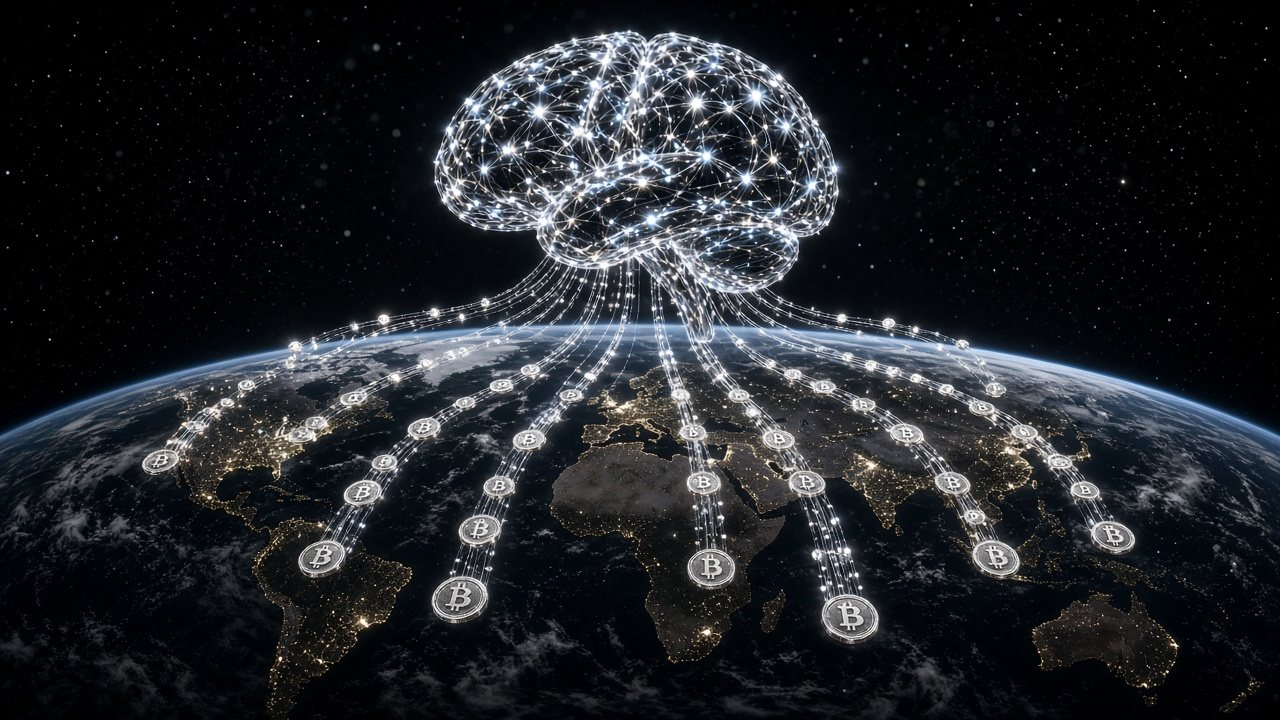
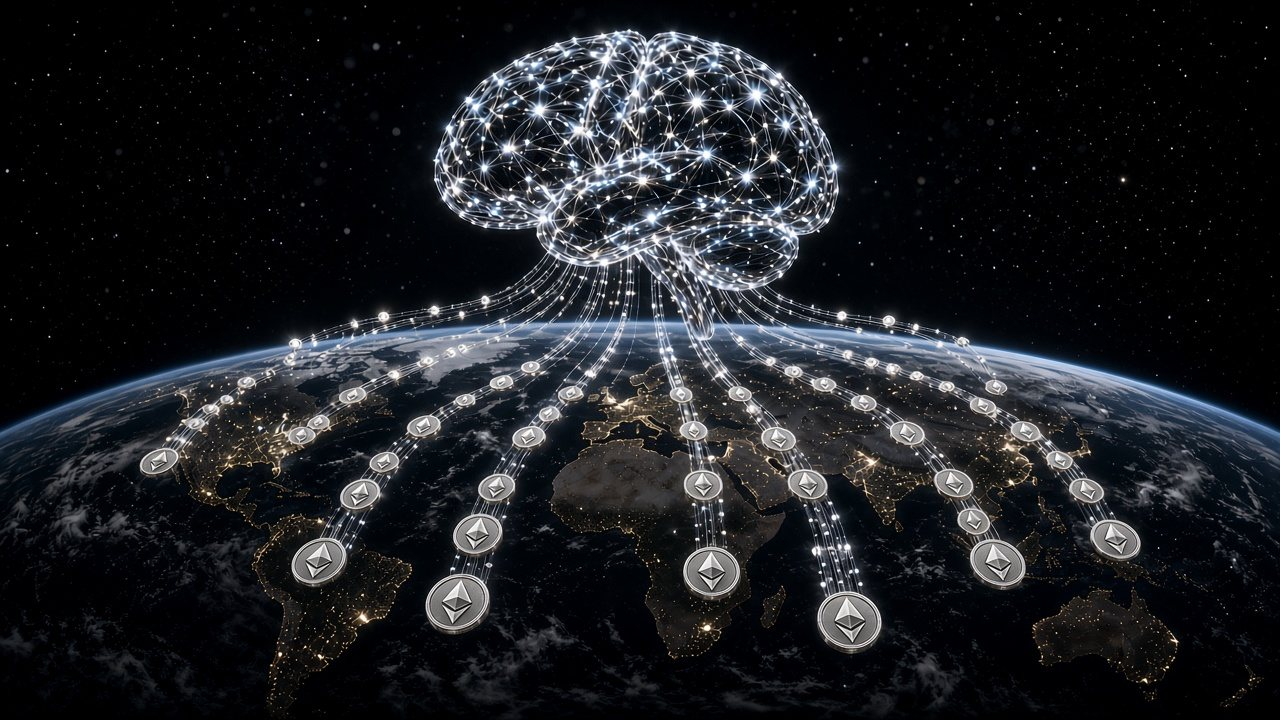
Gallery 8: ETH marks instead of BTC

diff --git a/index.html b/index.html
@@ -45,7 +45,7 @@
 <div class="card"><span class="n">03</span><h3>Swap for $UHI</h3><p>Open a DEX on Robinhood Chain such as Uniswap, connect your wallet, paste the official CA and swap ETH for $UHI.</p></div>
 <div class="card"><span class="n">04</span><h3>Go high</h3><p>Hold, share, and let the robots handle the rest.</p></div>
 </div><div class="row c"><a class="btn buy">Buy on Uniswap</a><a class="btn ghost" href="https://docs.robinhood.com/chain/bridging/" target="_blank" rel="noopener">Bridge to Robinhood Chain</a></div></section>
-<section id="gallery" class="reveal"><p class="eyebrow c">The future, in chrome</p><h2 class="c">Gallery</h2><div class="gallery"><button aria-label="Open image 1" data-full="img/g1.jpg"><picture><source srcset="img/g1.webp" type="image/webp"><img src="img/g1.jpg" alt="UHI: the chrome globe" loading="lazy" width="1280" height="720"></picture></button><button aria-label="Open image 2" data-full="img/g2.jpg"><picture><source srcset="img/g2.webp" type="image/webp"><img src="img/g2.jpg" alt="UHI: payday, every day" loading="lazy" width="1280" height="720"></picture></button><button aria-label="Open image 3" data-full="img/g3.jpg"><picture><source srcset="img/g3.webp" type="image/webp"><img src="img/g3.jpg" alt="UHI: the silver city" loading="lazy" width="1280" height="720"></picture></button><button aria-label="Open image 4" data-full="img/g4.jpg"><picture><source srcset="img/g4.webp" type="image/webp"><img src="img/g4.jpg" alt="UHI: robots on shift, you on break" loading="lazy" width="1280" height="720"></picture></button><button aria-label="Open image 5" data-full="img/g5.jpg"><picture><source srcset="img/g5.webp" type="image/webp"><img src="img/g5.jpg" alt="UHI: orbit" loading="lazy" width="1280" height="720"></picture></button><button aria-label="Open image 6" data-full="img/g6.jpg"><picture><source srcset="img/g6.webp" type="image/webp"><img src="img/g6.jpg" alt="UHI: launch day" loading="lazy" width="1280" height="720"></picture></button><button aria-label="Open image 7" data-full="img/g7.jpg"><picture><source srcset="img/g7.webp" type="image/webp"><img src="img/g7.jpg" alt="UHI: it's raining $UHI" loading="lazy" width="1280" height="720"></picture></button><button aria-label="Open image 8" data-full="img/g8.jpg"><picture><source srcset="img/g8.webp" type="image/webp"><img src="img/g8.jpg" alt="UHI: the abundance grid" loading="lazy" width="1280" height="720"></picture></button><button aria-label="Open image 9" data-full="img/g9.jpg"><picture><source srcset="img/g9.webp" type="image/webp"><img src="img/g9.jpg" alt="UHI: the vault is open" loading="lazy" width="1280" height="720"></picture></button><button aria-label="Open image 10" data-full="img/g10.jpg"><picture><source srcset="img/g10.webp" type="image/webp"><img src="img/g10.jpg" alt="UHI: new horizon" loading="lazy" width="1280" height="720"></picture></button></div></section>
+<section id="gallery" class="reveal"><p class="eyebrow c">The future, in chrome</p><h2 class="c">Gallery</h2><div class="gallery"><button aria-label="Open image 1" data-full="img/g1.jpg"><picture><source srcset="img/g1.webp" type="image/webp"><img src="img/g1.jpg" alt="UHI: the chrome globe" loading="lazy" width="1280" height="720"></picture></button><button aria-label="Open image 2" data-full="img/g2.jpg"><picture><source srcset="img/g2.webp" type="image/webp"><img src="img/g2.jpg" alt="UHI: payday, every day" loading="lazy" width="1280" height="720"></picture></button><button aria-label="Open image 3" data-full="img/g3.jpg"><picture><source srcset="img/g3.webp" type="image/webp"><img src="img/g3.jpg" alt="UHI: the silver city" loading="lazy" width="1280" height="720"></picture></button><button aria-label="Open image 4" data-full="img/g4.jpg"><picture><source srcset="img/g4.webp" type="image/webp"><img src="img/g4.jpg" alt="UHI: robots on shift, you on break" loading="lazy" width="1280" height="720"></picture></button><button aria-label="Open image 5" data-full="img/g5.jpg"><picture><source srcset="img/g5.webp" type="image/webp"><img src="img/g5.jpg" alt="UHI: orbit" loading="lazy" width="1280" height="720"></picture></button><button aria-label="Open image 6" data-full="img/g6.jpg"><picture><source srcset="img/g6.webp" type="image/webp"><img src="img/g6.jpg" alt="UHI: launch day" loading="lazy" width="1280" height="720"></picture></button><button aria-label="Open image 7" data-full="img/g7.jpg"><picture><source srcset="img/g7.webp" type="image/webp"><img src="img/g7.jpg" alt="UHI: it's raining $UHI" loading="lazy" width="1280" height="720"></picture></button><button aria-label="Open image 8" data-full="img/g8.jpg?v=2"><picture><source srcset="img/g8.webp?v=2" type="image/webp"><img src="img/g8.jpg?v=2" alt="UHI: the abundance grid" loading="lazy" width="1280" height="720"></picture></button><button aria-label="Open image 9" data-full="img/g9.jpg"><picture><source srcset="img/g9.webp" type="image/webp"><img src="img/g9.jpg" alt="UHI: the vault is open" loading="lazy" width="1280" height="720"></picture></button><button aria-label="Open image 10" data-full="img/g10.jpg"><picture><source srcset="img/g10.webp" type="image/webp"><img src="img/g10.jpg" alt="UHI: new horizon" loading="lazy" width="1280" height="720"></picture></button></div></section>
 </main>
 <footer><p>© 2026 $UHI on Robinhood Chain</p></footer>
 <dialog id="lb"><img alt="Gallery image"></dialog>
